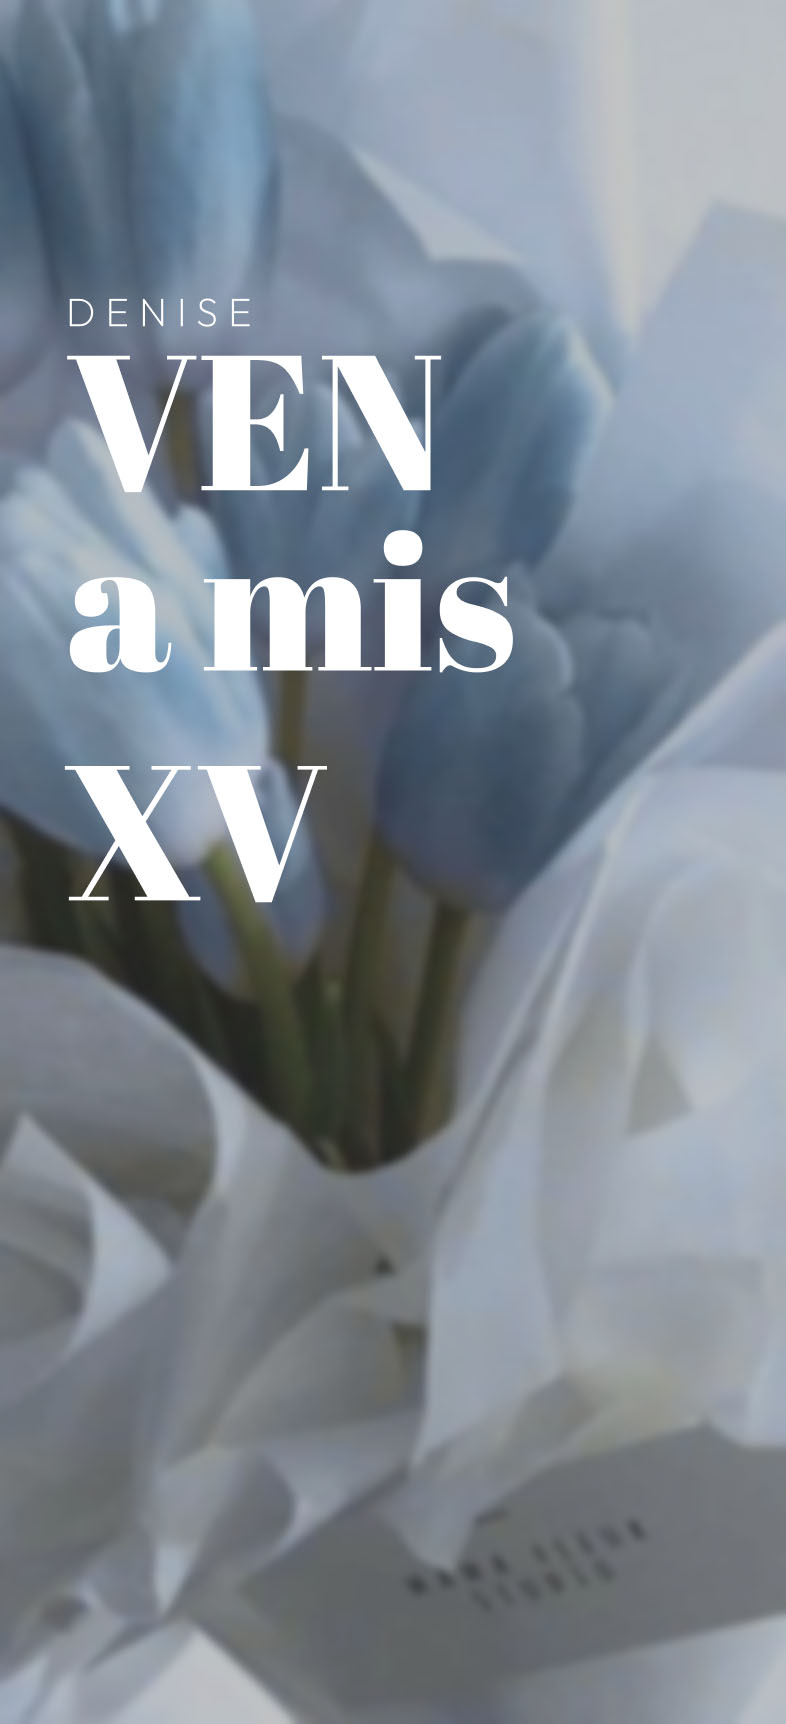
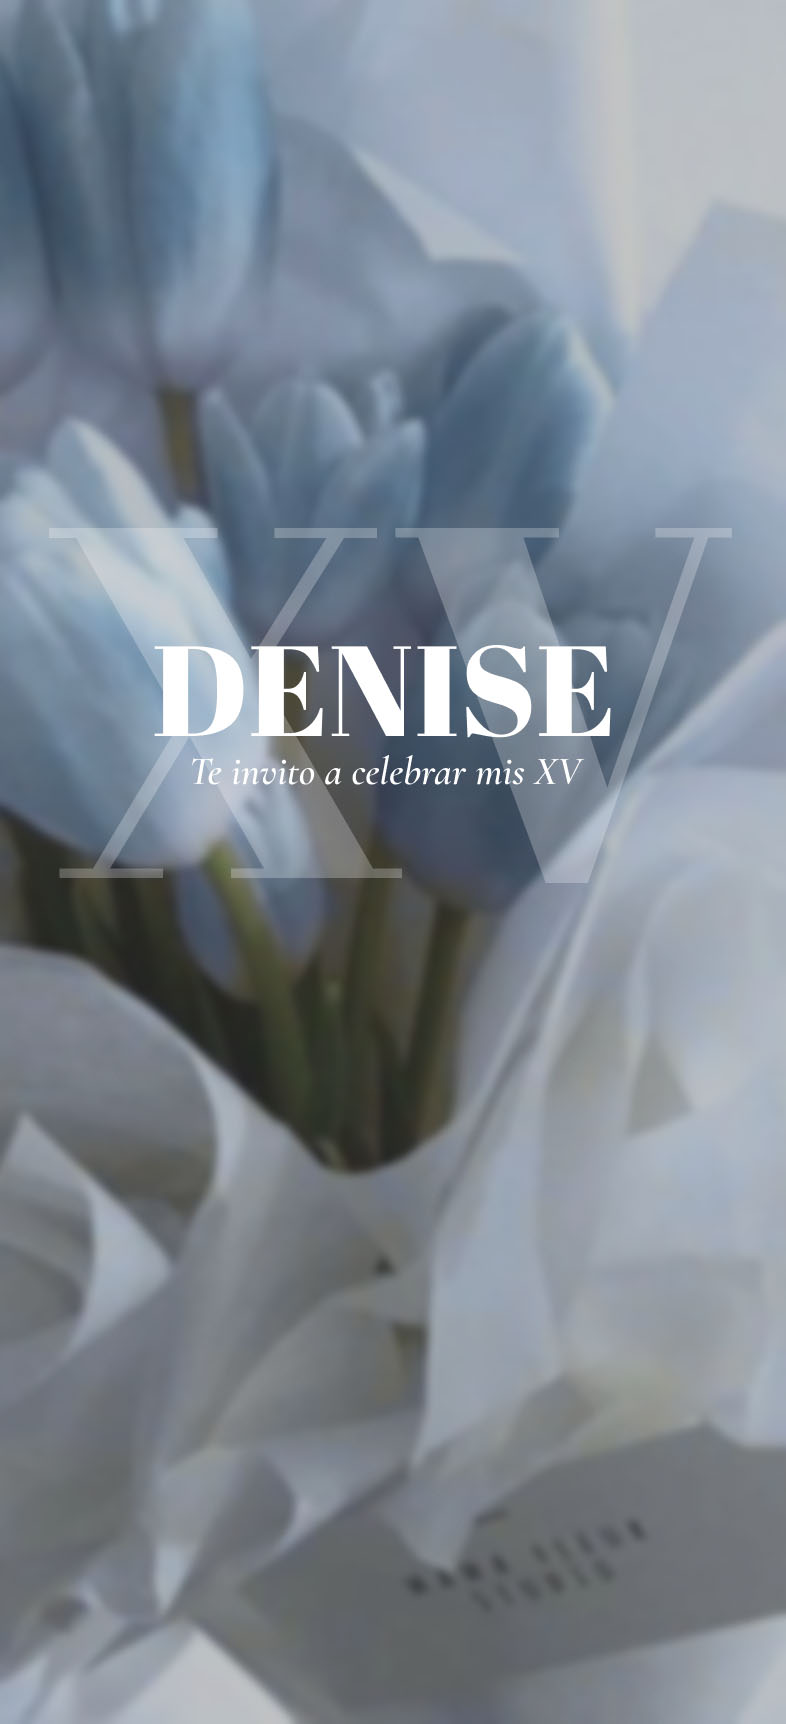
Fixed: Header and copys

Changed region(s): [[0.0611, 0.1845, 0.8244, 0.5226], [0.8244, 0.3074, 0.916, 0.3997], [0.1832, 0.1537, 0.2137, 0.1845]]

diff --git a/index.html b/index.html
@@ -29,17 +29,17 @@
 
 
         <section class="about">
-            <h3>SOBRE DENISE</h3>
-            <p>Hoy celebramos este nuevo amanecer en su vida, quince años de sueños y promesas por cumplir.</p>
+            <h3>DENISE</h3>
+            <p>"La vida es un viaje repleto de sorpresas y oportunidades. Hoy al celebrar mis XV años, estoy llena de la certeza de que lo mejor esta por venir. Los invito acompañarme en esta celebración donde juntos brindaremos por la vida y el amor."</p>
         </section>
 
-        <!-- <section class="details">
+        <section class="details">
             <h3>PADRES</h3>
             <p>Angélica Rosalía Aguayo Landín<br>Denis René Briseño Martínez</p>
 
             <h3>PADRINOS</h3>
-            <p>Bertha Azucena Gutiérrez Landín<br>Luis Eduardo Chacón Manzo</p>
-        </section> -->
+            <p>Bertha Azucena Gutiérrez Landín<br>Oscar Aguayo Landín</p>
+        </section>
 
 
 
@@ -60,16 +60,21 @@
             </div>
         </section>
 
-        <section class="schedule">
+        <section class="details">
+            <h3>REGALOS</h3>
+            <p></p>
+        </section>
+
+        <!-- <section class="schedule">
             <h3>CRONOGRAMA</h3>
             <p>Misa 5:00 P.M.<br>Fiesta 7:00 P.M.<br>Vals 8:00 P.M.<br>Brindis 8:30 P.M.<br>Cena 9:00 P.M.<br>Partida de Pastel 11:45 P.M.<br>Mañanitas 12:00 A.M.<br></p>
-        </section>
+        </section> -->
 
         <section class="notes">
             <h3>NOTAS</h3>
             <ul>
-                <li>El mejor regalo que me puedes dar es tu presencia, pero si deseas hacerme un obsequio, ya sea en efectivo o algún detalle, lo sabré apreciar. ¡Muchas gracias!</li>
-                <li>Favor de no vestir azul cielo o azul claro.</li>
+                <li>- Agradecemos tu asistencia y tu puntualidad.</li>
+                <li>- Favor de no vestir azul cielo o azul claro.</li>
             </ul>
 
             <button id="confirmButton" onclick="confirmarAsistencia()">Confirmar Asistencia</button>
